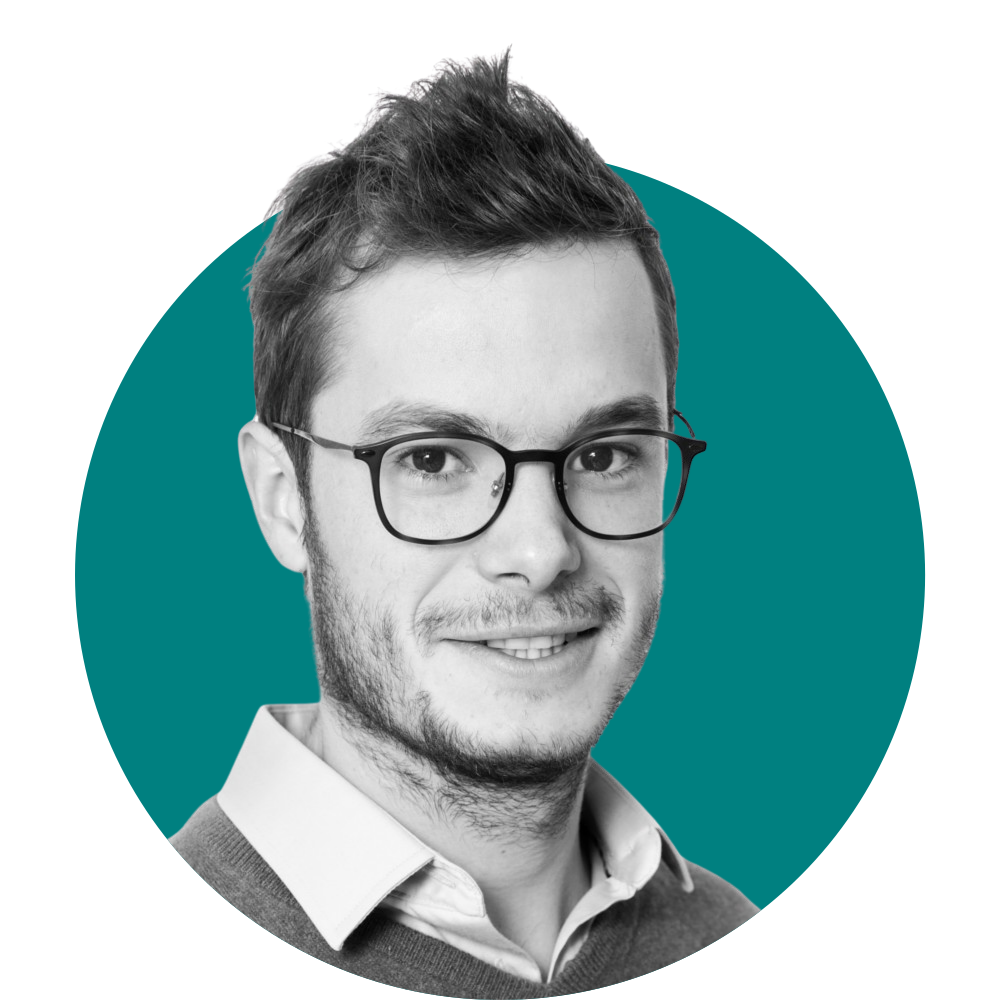
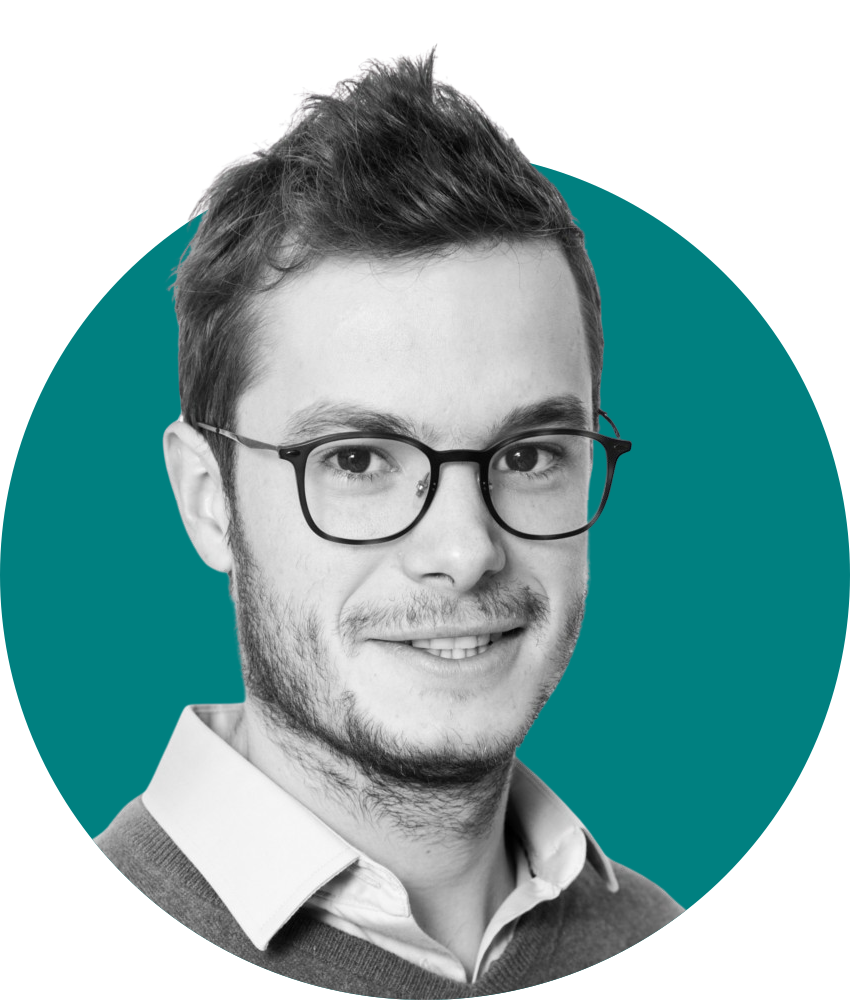
chore: update photo ratio

Changed region(s): [[0.0, 0.062, 1.0, 1.0]]

diff --git a/index.html b/index.html
@@ -15,6 +15,7 @@
     <main>
         <input type="checkbox" role="switch" onchange="switchTheme()" style="float: right;">
         <h1 id="thomas-demarcy-phd">Thomas <strong>Demarcy</strong>, PhD <br><img src="photo.png" width="256"></h1>
+        <p><a id="email"></a></p>
         <h2 id="experience">Experience</h2>
         <p><strong>Lead Data Scientist</strong><br />
         <strong>Volta Medical</strong> - Marseille, France<br />
@@ -28,12 +29,12 @@
         <strong>KardioMe</strong> - Bratislava, Slovakia<br />
         Oct. 2020 - Apr. 2021<br />
         Fine-Tuning Deep Learning Models for Cell Detection<br />
-        Funder: <a href="mailto:jan@kardio.me">Jan Margeta</a></p>
+        Funder: Jan Margeta</p>
         <p><strong>Data Scientist</strong><br />
         <strong>Oticon Medical</strong> - Vallauris, France<br />
         Feb. 2020 - Aug. 2020<br />
         Towards Automatic Cochlear Implant Fitting <a href="#journal-papers">[2-9,</a> <a href="#conference-proceedings">12-14]</a><br />
-        Director: <a href="mailto:dan.gnansia@inbrain-neuroelectronics.com">Dan Gnansia</a><br />
+        Director: Dan Gnansia<br />
         PhD Student: Zihao Wang <a href="#grants">[27]</a></p>
         <p><strong>Project Technical Lead</strong><br />
         <strong>Oticon Medical</strong> - Vallauris, France<br />
@@ -48,7 +49,7 @@
         <strong>Inria &amp; Oticon Medical</strong> - Sophia Antipolis, France<br />
         Nov. 2013 - Jul. 2017<br />
         Segmentation and Anatomical Variability of the Cochlea from Medical Images <a href="www.theses.fr/204374316">🔗</a><br />
-        Advisors: <a href="mailto:nicholas.ayache@inria.fr">Nicholas Ayache</a> &amp; <a href="mailto:herve.delingette@inria.fr">Hervé Delingette</a></p>
+        Advisors: Nicholas Ayache &amp; Hervé Delingette</p>
         <p><strong>Intern</strong><br />
         <strong>Philips Research</strong> - Hamburg, Germany<br />
         Apr. 2013 - Sep. 2013<br />
@@ -185,5 +186,11 @@
         Period: 2018 - 2021</li>
         </ol>
     </main>
+    <script>
+        const encoded = "ZGVtYXJjeUB0dXRhLmlv";
+        const decoded = window.atob(encoded);
+        document.getElementById('email').setAttribute('href', 'mailto:' + decoded);
+        document.getElementById('email').innerText = decoded;
+    </script>
 </body>
 </html>

diff --git a/template.html b/template.html
@@ -16,5 +16,11 @@
         <input type="checkbox" role="switch" onchange="switchTheme()" style="float: right;">
         $body$
     </main>
+    <script>
+        const encoded = "ZGVtYXJjeUB0dXRhLmlv";
+        const decoded = window.atob(encoded);
+        document.getElementById('email').setAttribute('href', 'mailto:' + decoded);
+        document.getElementById('email').innerText = decoded;
+    </script>
 </body>
 </html>

diff --git a/resume.md b/resume.md
@@ -1,5 +1,7 @@
 # Thomas **Demarcy**, PhD <br><img src="photo.png" width="256">
 
+<a id="email"></a>
+
 ## Experience
 
 **Lead Data Scientist**\
@@ -16,13 +18,13 @@ Software Release Enriched with Third-Party API Integration
 **KardioMe** - Bratislava, Slovakia\
 Oct. 2020 - Apr. 2021\
 Fine-Tuning Deep Learning Models for Cell Detection\
-Funder: [Jan Margeta](mailto:jan@kardio.me)
+Funder: Jan Margeta
 
 **Data Scientist**\
 **Oticon Medical** - Vallauris, France\
 Feb. 2020 - Aug. 2020\
 Towards Automatic Cochlear Implant Fitting [\[2-9,](#journal-papers) [12-14\]](#conference-proceedings)\
-Director: [Dan Gnansia](mailto:dan.gnansia@inbrain-neuroelectronics.com)\
+Director: Dan Gnansia\
 PhD Student: Zihao Wang [\[27\]](#grants)
 
 **Project Technical Lead**\
@@ -40,7 +42,7 @@ Science Communication [\[16-20\]](#oral-presentation)
 **Inria & Oticon Medical** - Sophia Antipolis, France\
 Nov. 2013 - Jul. 2017\
 Segmentation and Anatomical Variability of the Cochlea from Medical Images [🔗](www.theses.fr/204374316)\
-Advisors: [Nicholas Ayache](mailto:nicholas.ayache@inria.fr) & [Hervé Delingette](mailto:herve.delingette@inria.fr)
+Advisors: Nicholas Ayache & Hervé Delingette
 
 **Intern**\
 **Philips Research** - Hamburg, Germany\
